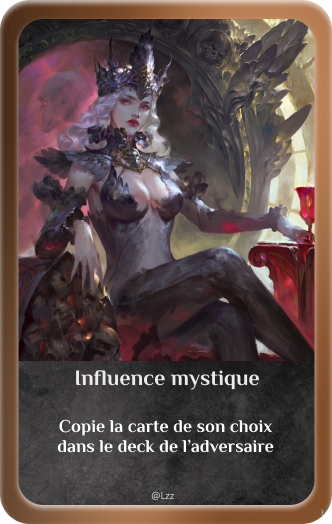
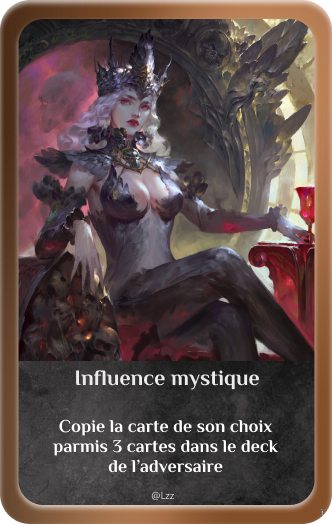
rajout d'effes de cartes

Changed region(s): [[0.1506, 0.8244, 0.8434, 0.916]]

diff --git a/cartes.py b/cartes.py
@@ -158,7 +158,6 @@ class Gout_du_risque(Cartes):
         Cartes.__init__(self, game,  name, type)
         self.img = pygame.image.load("assets/cartes/gout_du_risque.png")
 
-
     def effect_carte(self):
         self.game.list_crowd.charge_crowd()
         self.carte_use()
@@ -178,43 +177,28 @@ class Adaptation(Cartes):
         Cartes.__init__(self, game,  name, type)
         self.img = pygame.image.load("assets/cartes/adaptation.png")
 
+    def carte(self):
+        choix_de_carte = random.randint(0, 14)
+        if self.game.player_turn.carte1 == self.game.player_turn.caractere.cartes.Adaptation:
+            self.game.player_turn.carte1 = self.game.player_not_turn.caractere.list_cartes[choix_de_carte]
+        elif self.game.player_turn.carte2 == self.game.player_turn.caractere.cartes.Adaptation:
+            self.game.player_turn.carte2 = self.game.player_not_turn.caractere.list_cartes[choix_de_carte]
+        elif self.game.player_turn.carte3 == self.game.player_turn.caractere.cartes.Adaptation:
+            self.game.player_turn.carte3 = self.game.player_not_turn.caractere.list_cartes[choix_de_carte]
 
     def effect_carte(self):
-        if self.game.player_turn.jauge_de_confiance >= 15:
-            choix_de_carte = random.randint(1, 3)
+        if self.game.player_turn.carte_gratuit:
+            self.game.player_turn.carte_gratuit = False
+            self.carte()
+        if self.game.player_turn.carte_double:
+            if self.game.player_turn.jauge_de_confiance >= 30:
+                self.game.player_turn.carte_double = False
+                self.carte()
+                self.game.player_turn.jauge_de_confiance -= 30
+        elif self.game.player_turn.jauge_de_confiance >= 15:
+            self.carte()
             self.game.player_turn.jauge_de_confiance -= 15
-            if self.game.player_turn.carte1 == self.game.player_turn.caractere.cartes.Adaptation:
-                if choix_de_carte == 1:
-                    self.game.player_turn.carte1 = self.game.player_not_turn.carte1
-                if choix_de_carte == 2:
-                    self.game.player_turn.carte1 = self.game.player_not_turn.carte2
-                if choix_de_carte == 3:
-                    self.game.player_turn.carte1 = self.game.player_not_turn.carte3
-            elif self.game.player_turn.carte2 == self.game.player_turn.caractere.cartes.Adaptation:
-                if choix_de_carte == 1:
-                    self.game.player_turn.carte2 = self.game.player_not_turn.carte1
-                if choix_de_carte == 2:
-                    self.game.player_turn.carte2 = self.game.player_not_turn.carte2
-                if choix_de_carte == 3:
-                    self.game.player_turn.carte2 = self.game.player_not_turn.carte3
-            elif self.game.player_turn.carte3 == self.game.player_turn.caractere.cartes.Adaptation:
-                if choix_de_carte == 1:
-                    if self.game.player_not_turn.carte1 != None:
-                        self.game.player_turn.carte3 = self.game.player_not_turn.carte1
-                    else:
-                        choix_de_carte = 2
-                if choix_de_carte == 2:
-                    if self.game.player_not_turn.carte2 != None:
-                        self.game.player_turn.carte3 = self.game.player_not_turn.carte2
-                    else:
-                        choix_de_carte = 3
-                if choix_de_carte == 3:
-                    if self.game.player_not_turn.carte3 != None:
-                        self.game.player_turn.carte3 = self.game.player_not_turn.carte3
-                    else:
-                        choix_de_carte = 4
-                if choix_de_carte == 4:
-                    self.game.player_turn.jauge_de_confiance += 15
+
 
 
 
@@ -234,7 +218,8 @@ class Experience_de_lage(Cartes):
 
 
     def effect_carte(self):
-        pass
+        self.game.player_turn.bonus_publique = 0
+        self.carte_use()
 
 class Veteran(Cartes):
     def __init__(self, game,  name, type):
@@ -243,7 +228,8 @@ class Veteran(Cartes):
 
 
     def effect_carte(self):
-        pass
+        self.game.player_turn.jauge_de_confiance += 15
+        self.carte_use()
 
 class Sante_fragile(Cartes):
     def __init__(self, game,  name, type):
@@ -252,7 +238,14 @@ class Sante_fragile(Cartes):
 
 
     def effect_carte(self):
-        pass
+        chance = random.randint(1, 2)
+        if chance == 1:
+            self.game.player_turn.jauge_de_confiance += 20
+            self.carte_use()
+        if chance == 2:
+            self.game.player_turn.jauge_de_confiance -= 5
+            self.carte_use()
+
 
 class Oeil_sage(Cartes):
     def __init__(self, game,  name, type):
@@ -271,7 +264,14 @@ class Avantage_masculin(Cartes):
 
 
     def effect_carte(self):
-        pass
+        if self.game.player_not_turn.sexe == "F":
+            self.game.player_not_turn.jauge_de_confiance -= 10
+            self.game.player_turn.jauge_de_confiance += 10
+        elif self.game.player_not_turn.sexe == "M":
+            self.game.player_not_turn.jauge_de_confiance -= 5
+            self.game.player_turn.jauge_de_confiance += 5
+        self.carte_use()
+
 
 class Tonalite_virile(Cartes):
     def __init__(self, game,  name, type):
@@ -280,7 +280,8 @@ class Tonalite_virile(Cartes):
         
 
     def effect_carte(self):
-        pass
+        self.game.player_turn.jauge_de_confiance += 15
+        self.carte_use()
 
 class Sens_du_sacrifice(Cartes):
     def __init__(self, game,  name, type):
@@ -298,7 +299,8 @@ class Monotache(Cartes):
 
 
     def effect_carte(self):
-        pass
+        self.game.player_turn.carte_gratuit = True
+        self.carte_use()
 
 #Femme
 class Avantage_feminin(Cartes):
@@ -308,7 +310,13 @@ class Avantage_feminin(Cartes):
 
 
     def effect_carte(self):
-        pass
+        if self.game.player_not_turn.sexe == "M":
+            self.game.player_not_turn.jauge_de_confiance -= 10
+            self.game.player_turn.jauge_de_confiance += 10
+        elif self.game.player_not_turn.sexe == "F":
+            self.game.player_not_turn.jauge_de_confiance -= 5
+            self.game.player_turn.jauge_de_confiance += 5
+        self.carte_use()
 
 class Mauvaise_foi(Cartes):
     def __init__(self, game,  name, type):
@@ -317,7 +325,18 @@ class Mauvaise_foi(Cartes):
 
 
     def effect_carte(self):
-        pass
+        if self.game.player_turn.carte_gratuit:
+            self.game.player_turn.carte_gratuit = False
+            self.game.player_not_turn.carte_double = True
+        if self.game.player_turn.carte_double :
+            if self.game.player_turn.jauge_de_confiance >= 10:
+                self.game.player_not_turn.carte_double = True
+                self.game.player_turn.carte_double = False
+                self.game.player_turn.jauge_de_confiance -= 10
+        elif self.game.player_turn.jauge_de_confiance >= 5 or self.game.player_turn.carte_gratuit :
+            self.game.player_not_turn.carte_double = True
+            self.game.player_turn.jauge_de_confiance -= 5
+        
 
 class Seduction(Cartes):
     def __init__(self, game,  name, type):

diff --git a/player1.py b/player1.py
@@ -16,6 +16,8 @@ class Player1():
         self.number_carte3 = 0
         self.win1 = None
         self.win2 = None
+        self.carte_gratuit = False
+        self.carte_double = False
 
         self.spritx, self.sprity = self.game.mid_w - 550, self.game.mid_h - 100
 

diff --git a/player2.py b/player2.py
@@ -18,6 +18,8 @@ class Player2():
         self.number_carte3 = 0
         self.win1 = None
         self.win2 = None
+        self.carte_gratuit = False
+        self.carte_double = False
 
         self.spritx, self.sprity = self.game.mid_w + 550, self.game.mid_h - 100
 
